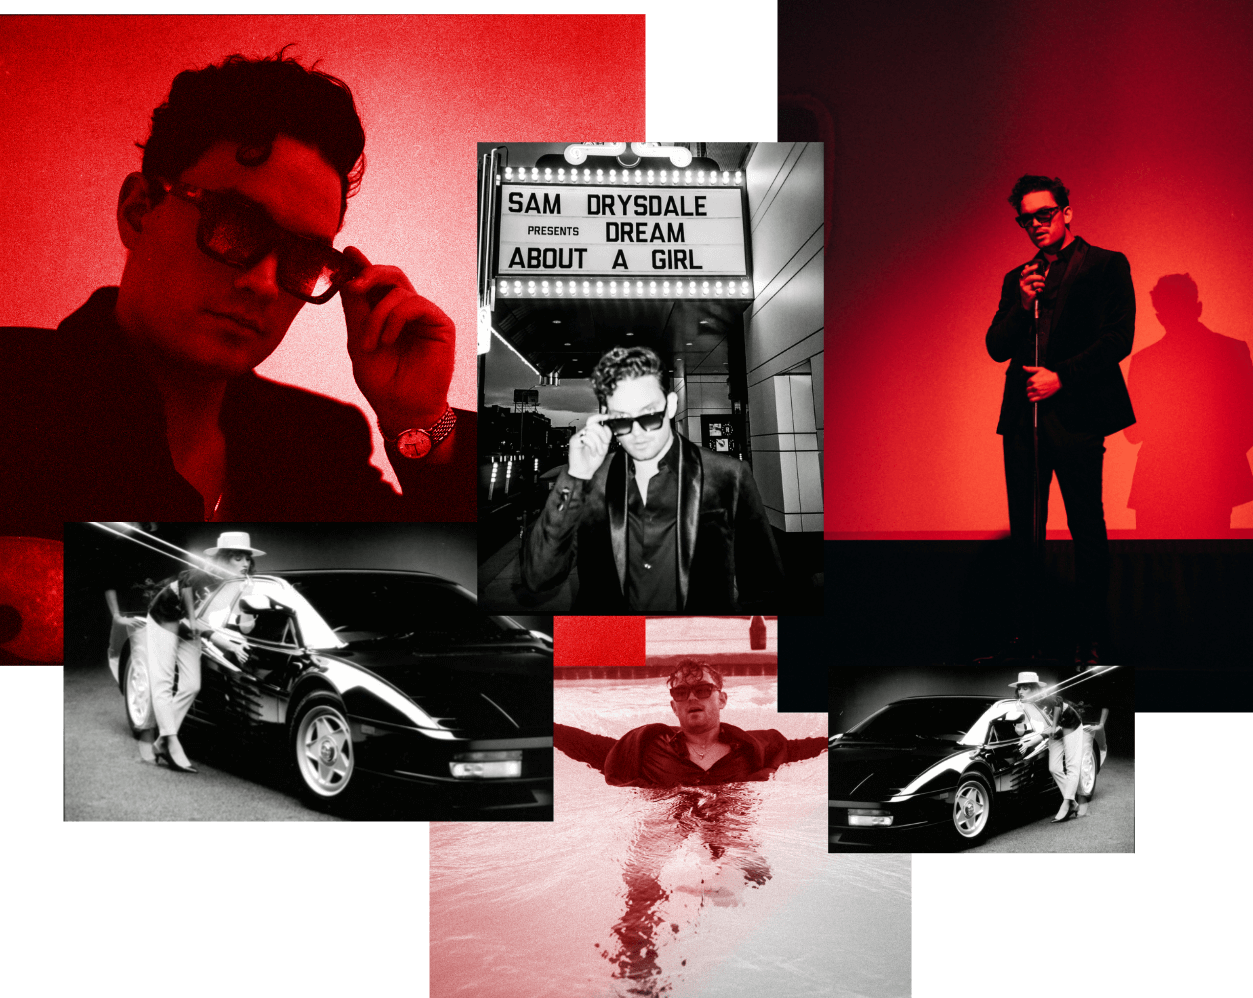
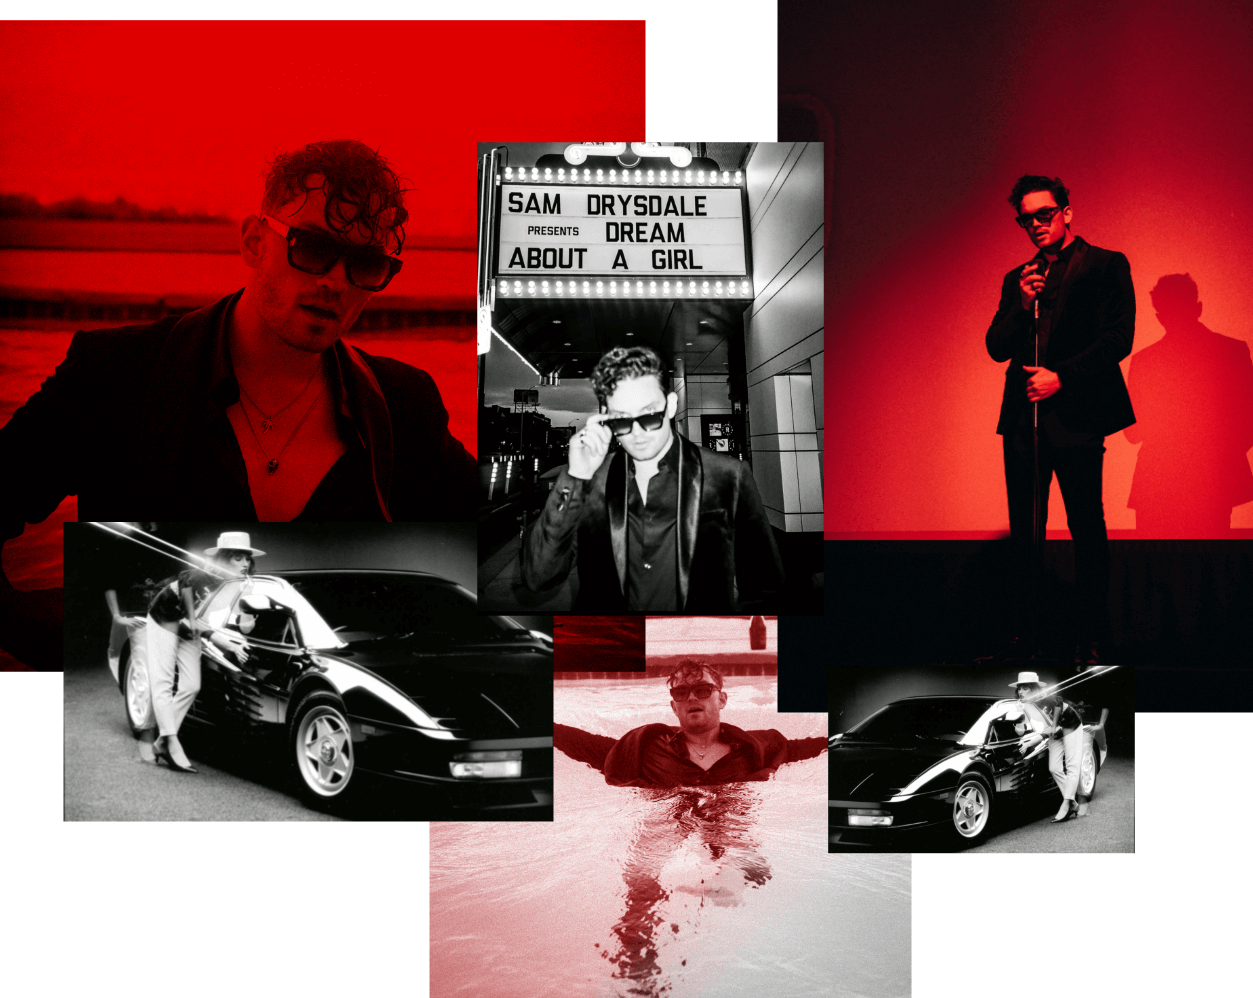
fixed the header

Changed region(s): [[0.0, 0.0, 0.5291, 0.6834], [0.4358, 0.5902, 0.5291, 0.6834]]

diff --git a/src/pages/home/home.js b/src/pages/home/home.js
@@ -12,7 +12,7 @@ import { ALBUMS, SOCIALS, SONGS, VIDEOS } from "../../utils/data"
 
 import IntroShotImg from "../../assets/img/cover-image.jpg"
 import BiographyImg from "../../assets/img/biography.png"
-import ListenImg from "../../assets/img/intro-shot.png"
+import ListenImg from "../../assets/img/listen-2.png"
 import CollageImg from "../../assets/img/collage.png"
 import SignatureImg from "../../assets/img/cursive-logo.svg"
 
